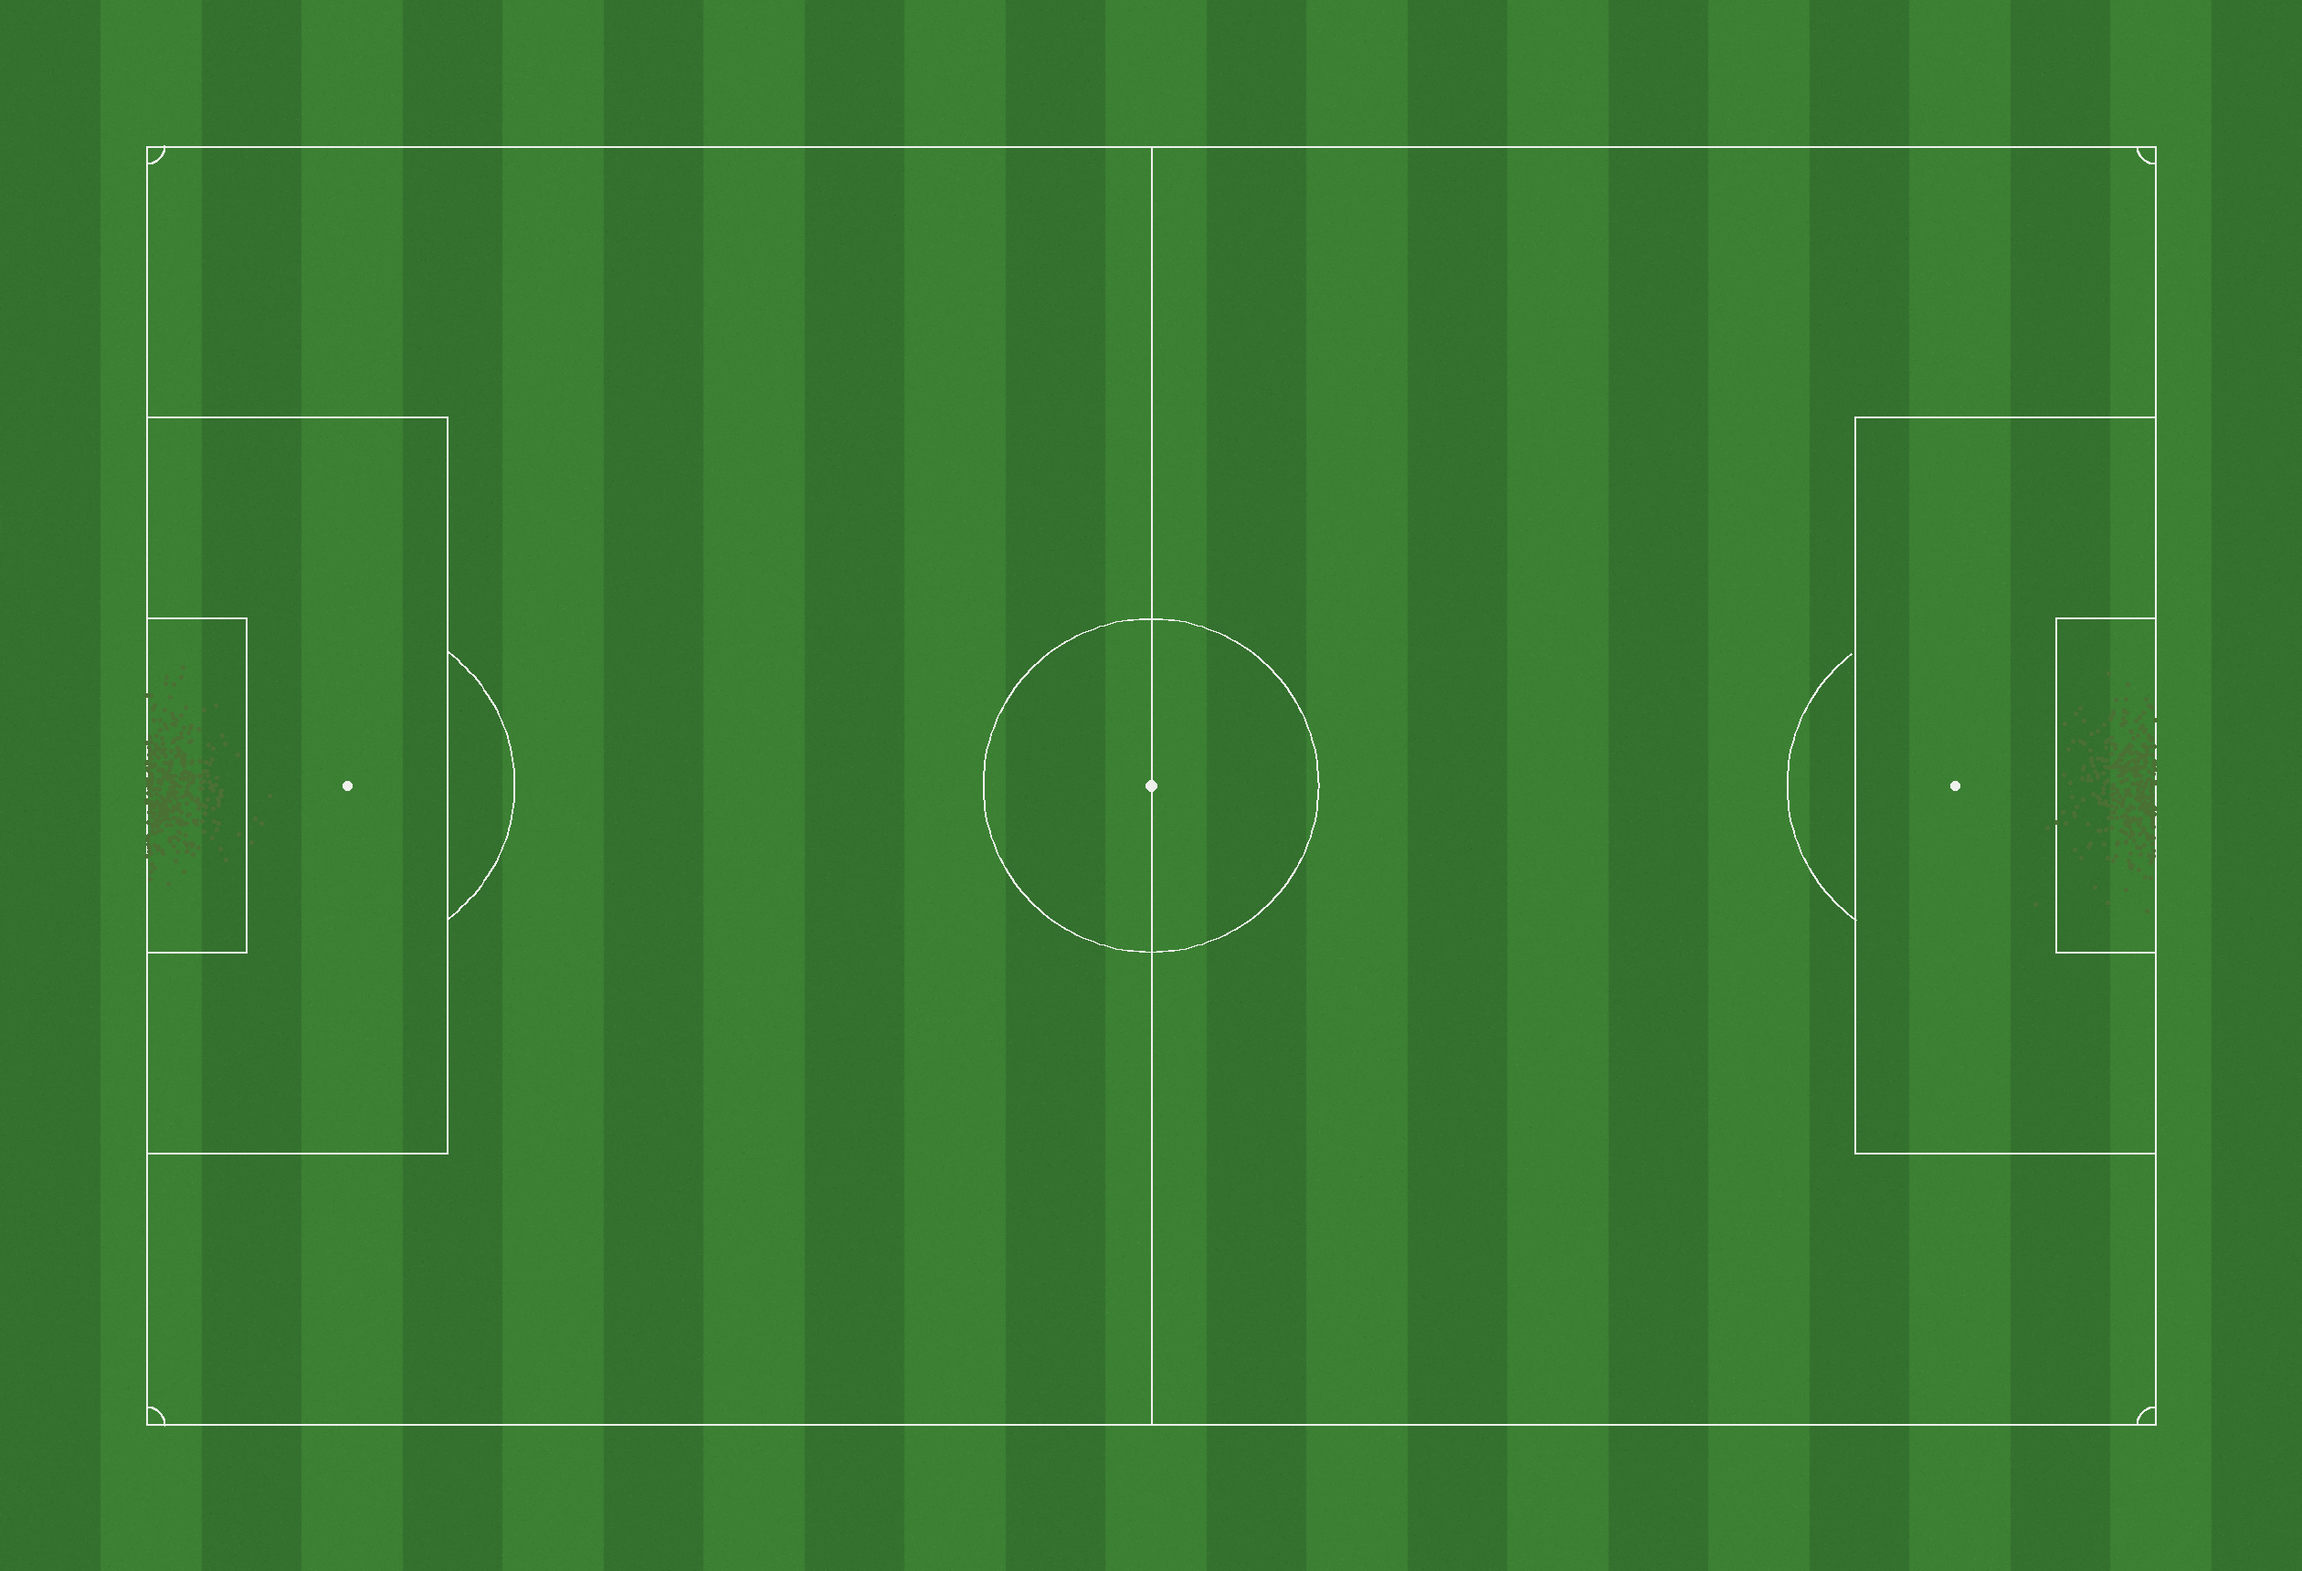
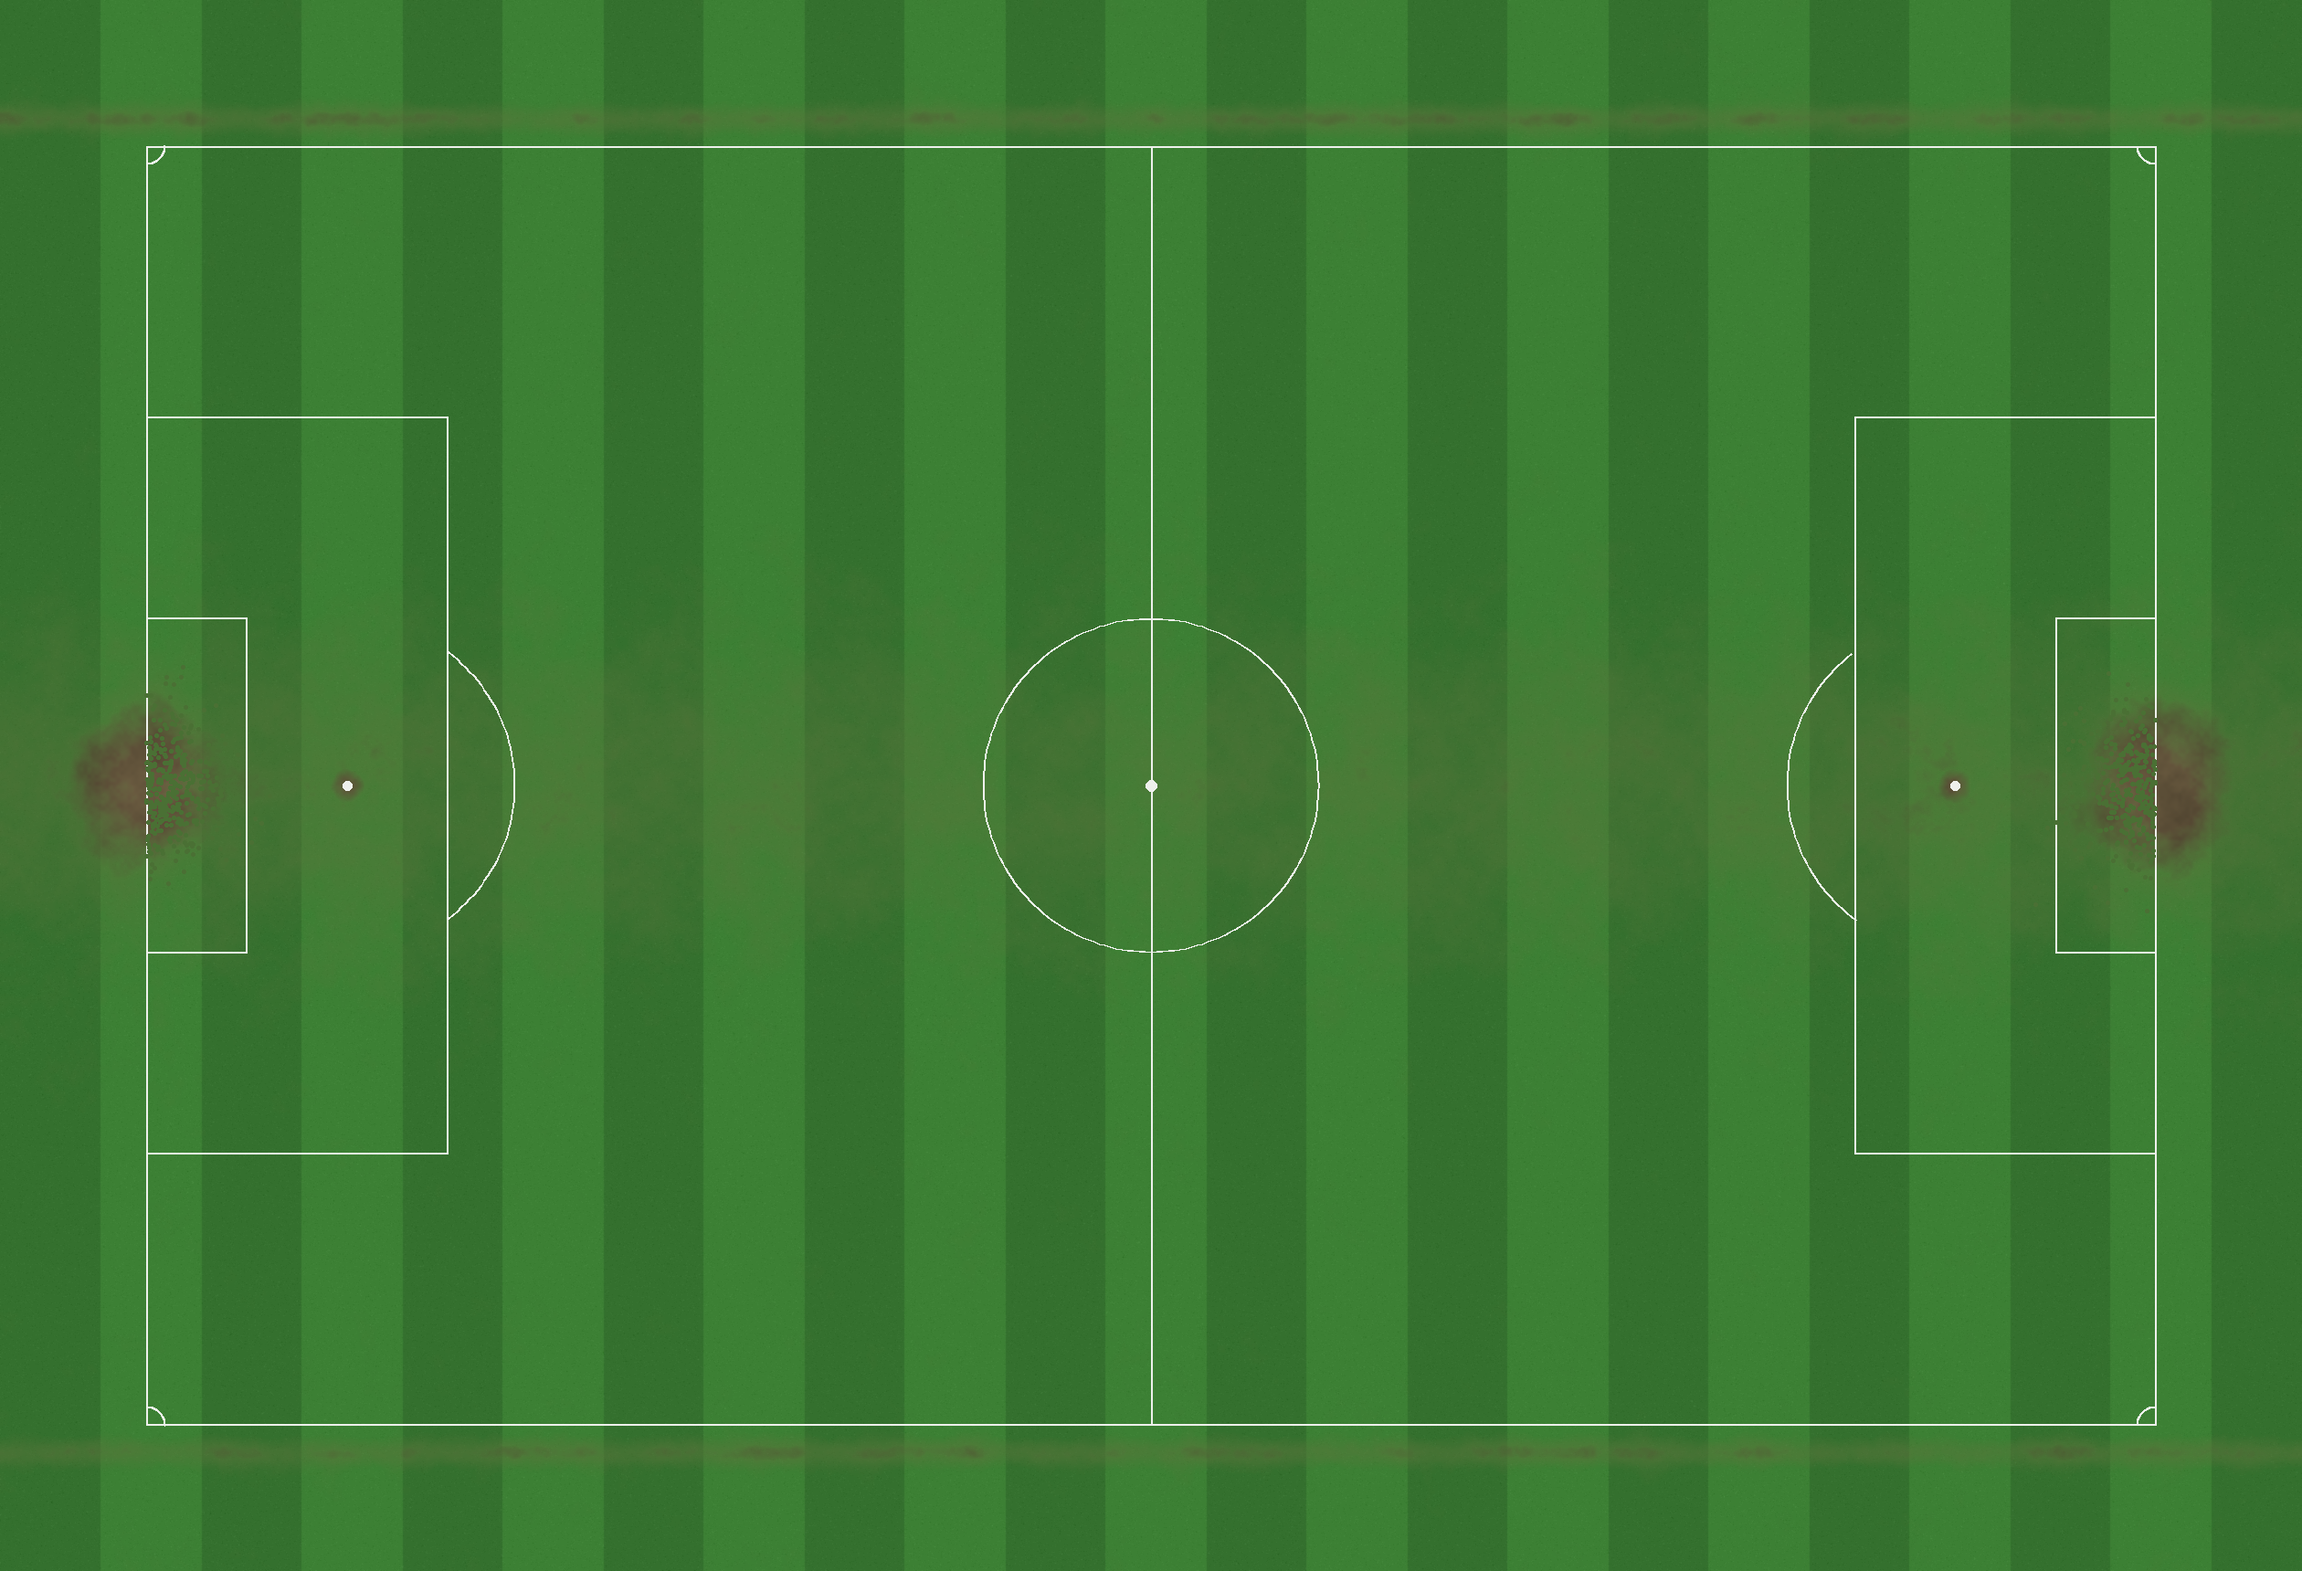
3D view: a November pitch - goalmouths worn to mud, worn penalty spots, a thinner strip down the middle, the assistants' runs
Claude-Session: https://claude.ai/code/session_01M7F3ty1L5evi8ufyDyNPoK

Changed region(s): [[0.8976, 0.4314, 0.9905, 0.5547], [0.031, 0.4622, 0.0929, 0.5547], [0.8357, 0.493, 0.8667, 0.5238]]

diff --git a/broadcast3d/textures.py b/broadcast3d/textures.py
@@ -24,6 +24,7 @@ def pitch():
         r, g, b = px[x, y]; k = rnd.randint(-9, 9)
         px[x, y] = (max(0, r + k), max(0, g + k), max(0, b + k))
     im = im.filter(ImageFilter.GaussianBlur(0.6))
+    im = wear(im)
     d = ImageDraw.Draw(im)
     o = SUR * PX
     def P(xm, ym): return (o + xm * PX, o + ym * PX)
@@ -53,6 +54,43 @@ def pitch():
     for cx, cy, a0 in ((0, 0, 0), (L, 0, 90), (L, Wd, 180), (0, Wd, 270)):
         circ(cx, cy, 1, a0, a0 + 90)
     im.save(OUT + "pitch.png")
+
+
+def wear(im):
+    """A November pitch at a lower-league ground: the goalmouths worn to mud (worst on the keeper's line and the
+    six-yard box), the penalty spots, a thinner strip down the middle where most of the game is played, the
+    assistants' runs along the touchlines, the centre circle - with the edges broken up, as real wear is."""
+    import numpy as np
+    a = np.asarray(im).astype(np.float32)
+    h, w = a.shape[:2]
+    ys, xs = np.mgrid[0:h, 0:w]
+    mx, my = xs / PX - SUR, ys / PX - SUR                       # (metres from the corner of the lines)
+    rng = np.random.default_rng(5)
+
+    def noise(scale):
+        small = rng.random((h // scale + 2, w // scale + 2)).astype(np.float32)
+        img = Image.fromarray((small * 255).astype(np.uint8)).resize((w, h), Image.BICUBIC)
+        return np.asarray(img).astype(np.float32) / 255.0
+    n = 0.55 * noise(40) + 0.3 * noise(12) + 0.15 * noise(4)
+    m = np.zeros((h, w), np.float32)
+    for x0 in (0.0, float(L)):
+        dx = np.abs(mx - x0)
+        gm = np.exp(-(dx / 5.0) ** 2 - ((my - Wd / 2) / 5.5) ** 2)              # (the goalmouth)
+        line = np.exp(-(dx / 1.3) ** 2 - ((my - Wd / 2) / 3.8) ** 2)            # (the keeper's line)
+        spot = np.exp(-((dx - 11) / 1.2) ** 2 - ((my - Wd / 2) / 1.2) ** 2)     # (the penalty spot)
+        m = np.maximum(m, np.maximum(0.9 * gm, np.maximum(line, 0.75 * spot)))
+    mid = np.exp(-((my - Wd / 2) / 9.0) ** 2) * (1 - np.exp(-((mx - L / 2) / 40.0) ** 2) * 0.2) * 0.42
+    centre = np.exp(-((np.hypot(mx - L / 2, my - Wd / 2)) / 4.0) ** 2) * 0.4
+    runs = (np.exp(-((my + 1.5) / 0.8) ** 2) + np.exp(-((my - Wd - 1.5) / 0.8) ** 2)) * 0.45
+    m = np.maximum(m, np.maximum(mid, np.maximum(centre, runs)))
+    m = np.clip((m - 0.3 * n + 0.08) * 1.4, 0, 1)                    # (broken up)
+    mud = np.array([96, 82, 58], np.float32)
+    worn = np.array([92, 118, 60], np.float32)                   # (thin, yellowing grass on the way to mud)
+    k1 = np.clip(m * 2.0, 0, 1)[..., None]
+    k2 = np.clip(m * 2.0 - 1.0, 0, 1)[..., None]
+    out = a * (1 - k1) + (a * 0.5 + worn * 0.5) * k1
+    out = out * (1 - k2) + (mud * (0.85 + 0.3 * n[..., None])) * k2
+    return Image.fromarray(np.clip(out, 0, 255).astype(np.uint8))
 
 
 def sorted_rect(a, b):
